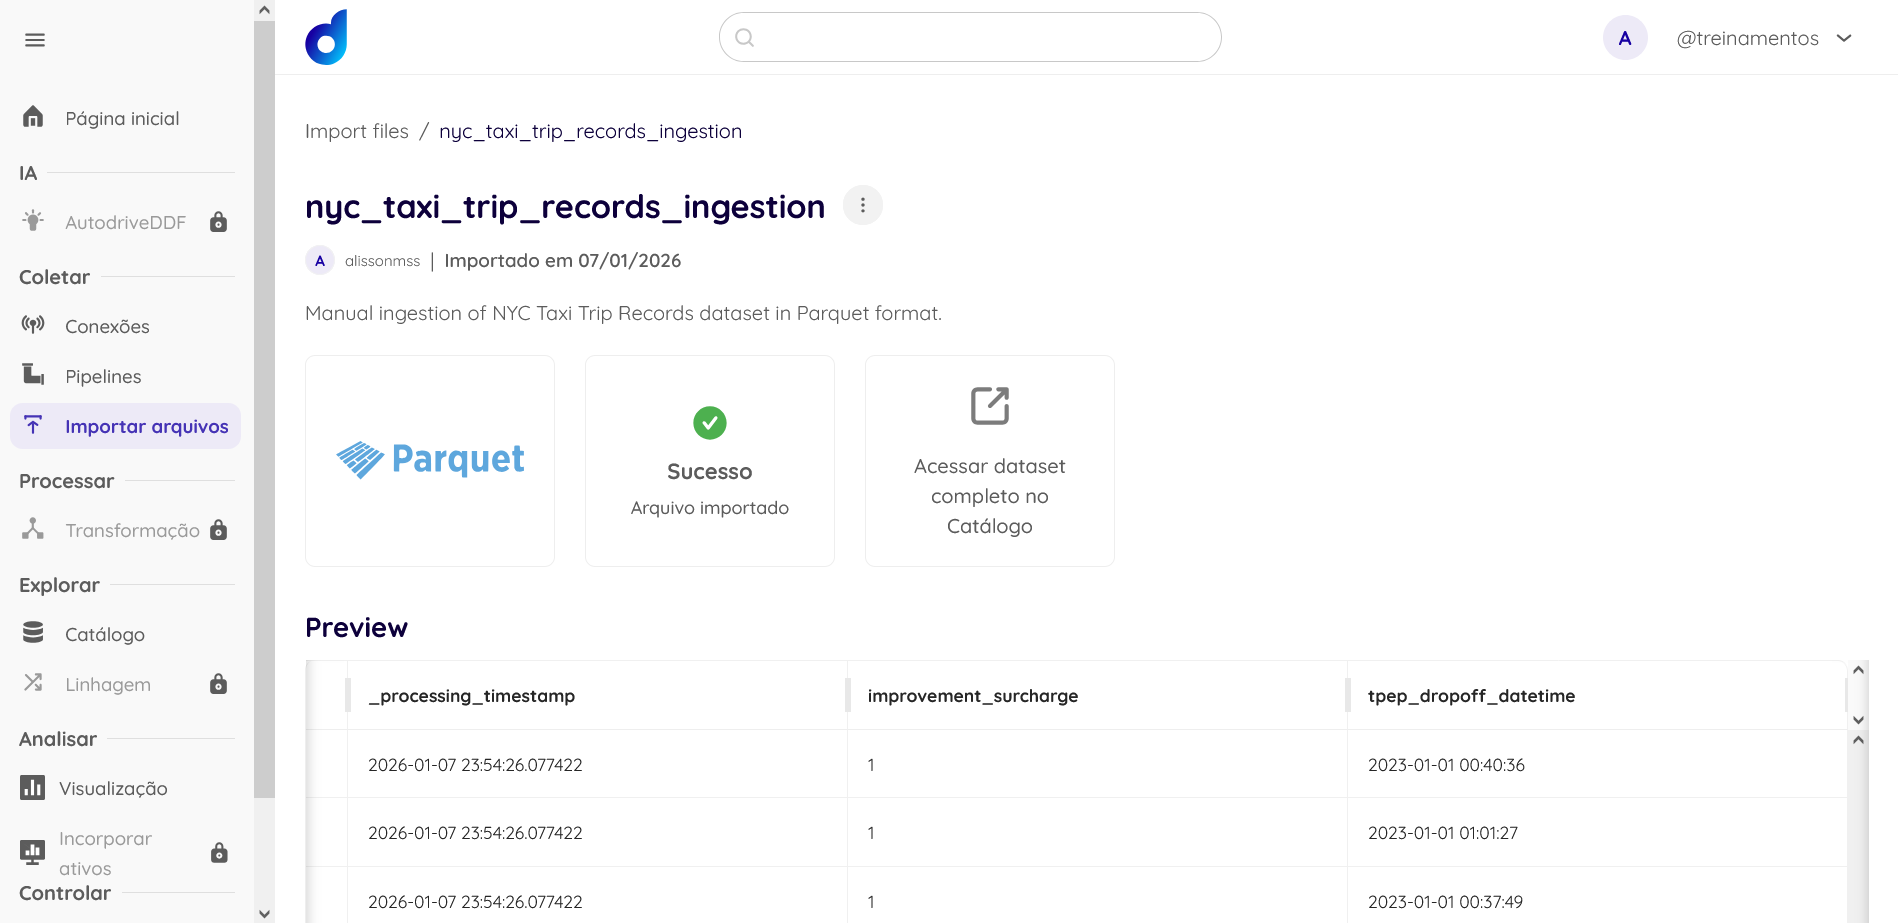
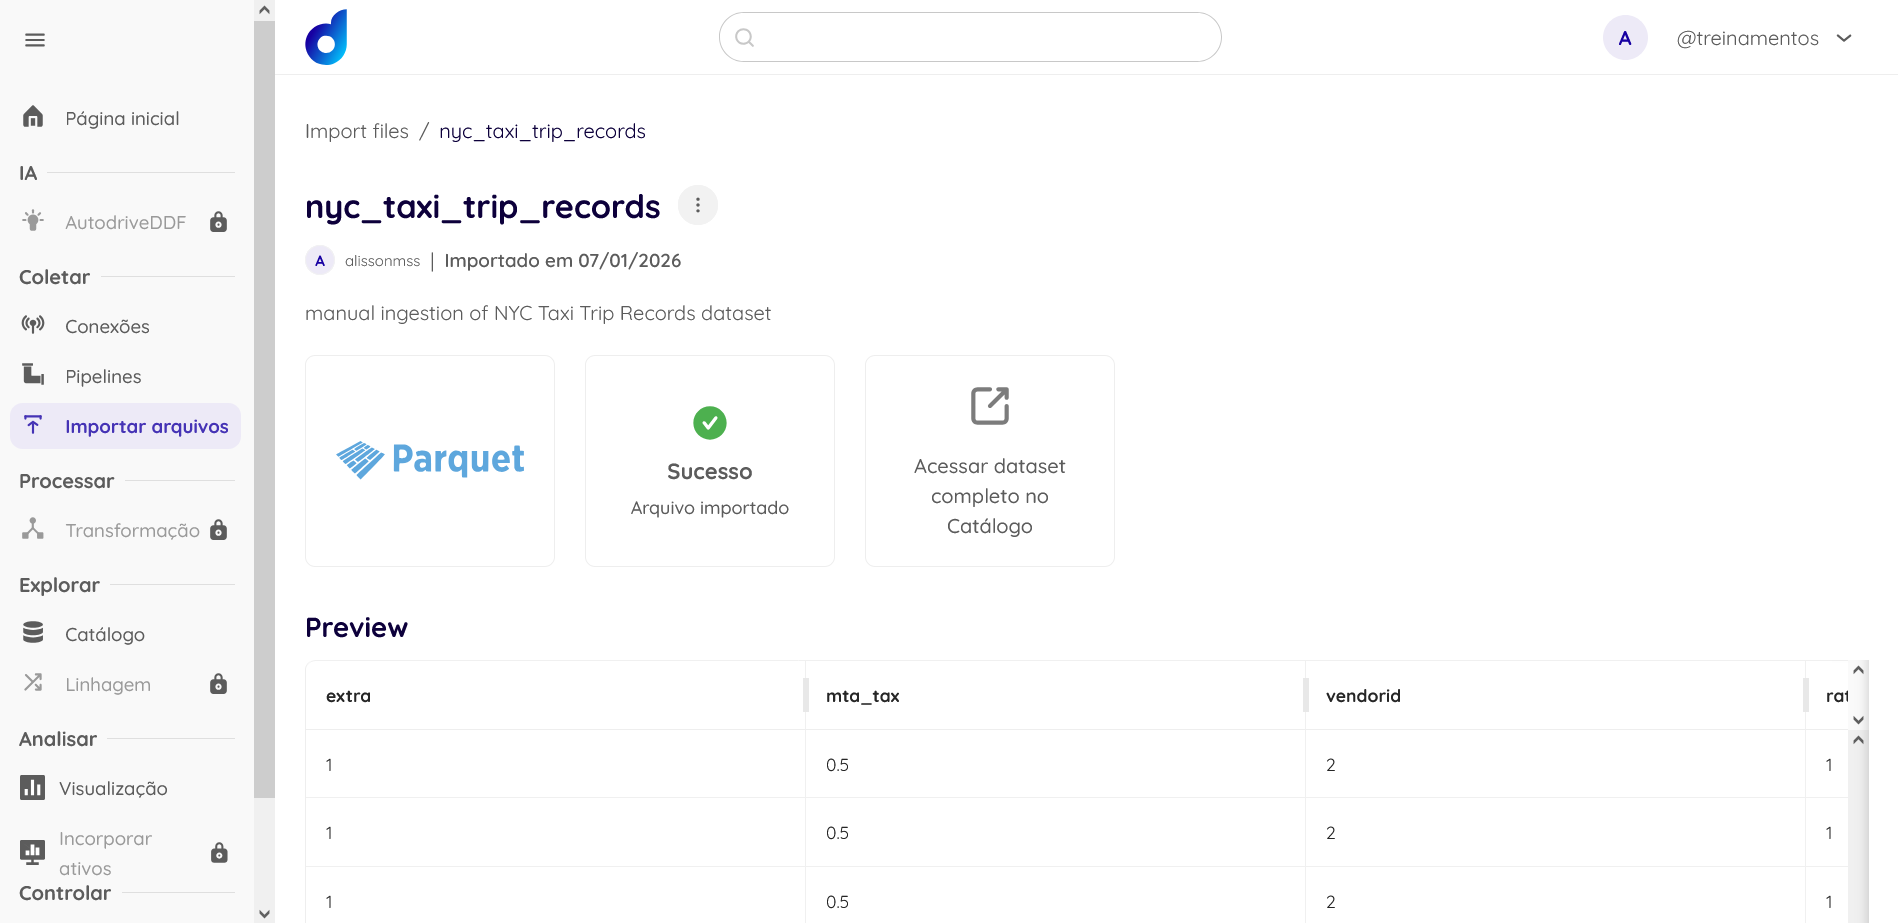
snapshot update

diff --git a/README.md b/README.md
@@ -46,8 +46,8 @@ An ingestion asset was created using the **Novo arquivo** option available in th
 The dataset was imported in Parquet format.
 
 **Ingestion Asset Details:**
-- **Name:** nyc_taxi_trip_records_ingestion
-- **Description:** Manual ingestion of NYC Taxi Trip Records dataset in Parquet format.
+- **Name:** nyc_taxi_trip_records
+- **Description:** manual ingestion of NYC Taxi Trip Records dataset
 
 ---
 
